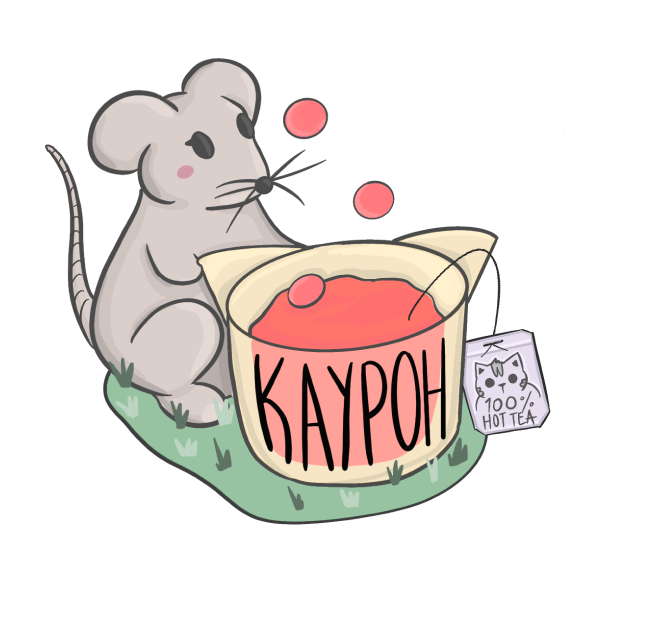
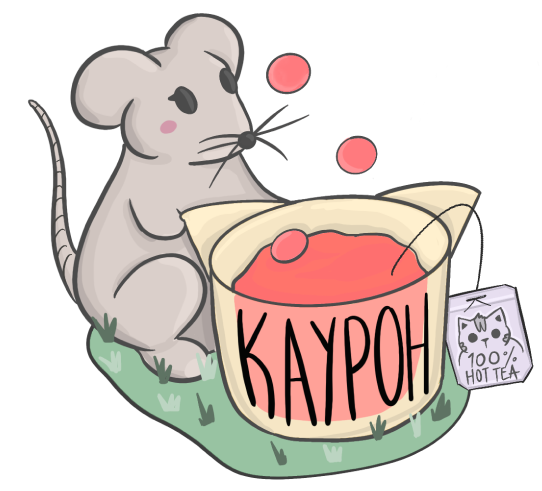
Jin Cheng

diff --git a/CSS/styles.css b/CSS/styles.css
@@ -6,10 +6,10 @@ body {
     background-color: #f0f0f5;
     color: #333;
 }
-header img {
+.logo img {
     display: block;
-    width: 110px; /* Adjust the size of the icon */
-    height: 110px;
+    width:90px; /* Adjust the size of the icon */
+    height: 90px;
     margin-bottom: 5px; /* Space between the icon and text */
 }
 
@@ -21,15 +21,20 @@ header {
 
 nav {
     display: flex;
+    align-items: flex-start;
+    height: 100px;
     justify-content: space-between;
     align-items: center;
     padding: 0 20px;
 }
 
+
+
+
 nav ul {
     list-style: none;
     display: flex;
-    gap: 20px;
+    gap: 50px;
 }
 
 nav ul li {
@@ -55,6 +60,7 @@ nav ul li a img {
 nav ul li a span {
     display: block;
     font-size: 14px; /* Adjust font size as needed */
+    margin-bottom: 1px;
 }
 
 /* Hero Section */
@@ -109,9 +115,52 @@ nav ul li a span {
 
 
 #dashboard .container {
-    max-width: 1200px;
     margin: 0 auto;
 }
+
+/* Container styles */
+.container {
+    margin-top: 20px;
+}
+
+/* Flexbox for the box container */
+.box-container {
+    display: flex;
+    justify-content: space-evenly; /* Evenly distribute space between items */
+    gap: 20px; /* Space between the divs */
+    margin-top: 20px; /* Space between the heading and the divs */
+    width: 100%;
+    height:420px;
+    
+}
+
+/* All boxes share common styles */
+.box {
+    flex-grow: 1;
+    align-items: bottom;
+    justify-content: center;
+    background-color: transparent; /* Transparent background for image boxes */
+    
+}
+
+/* Specific styles for text boxes with white background */
+.white-box {
+    flex-grow: 2;
+    background-color: white;
+    padding: 20px;
+    border-radius: 10px;
+    text-align: center;
+}
+
+
+.box img {
+    max-width: 100%; /* Ensure images scale within their div */
+    max-height: 400px;
+    object-fit: contain;
+    margin-top: 250px;
+    
+}
+
 
 #chartContainer {
     height: 400px;

diff --git a/dashboard.html b/dashboard.html
@@ -34,38 +34,14 @@
 
     <section id="hero">
         <div class="hero-content">
-            <h2>Search Social Media Trends</h2>
-            <p>Track and analyze the latest discussions on social issues across multiple platforms.</p>
-            <input type="text" id="search" placeholder="Enter social issue or hashtag...">
-            <button onclick="fetchData()">Search</button>
+            
         </div>
     </section>
 
     <section id="dashboard">
         <div class="container">
-            <h2>Trending Social Issues</h2>
-    
-            <div class="box-container">
-                <div class="box">
-                    <img src="assets/images/mouseleft.png" alt="Mouse Left">
-                </div>
- 
-                <div class="box white-box">
-                    <p>Text content for the first text box.</p>
-                </div>
-
-                <div class="box">
-                    <img src="assets/images/mousefront.png" alt="Mouse Front">
-                </div>
-    
-                 <div class="box white-box">
-                    <p>Text content for the second text box.</p>
-                </div>
- 
-                <div class="box">
-                    <img src="assets/images/mouseright.png" alt="Mouse Right">
-                </div>
-            </div>
+            <h2>Dashboard</h2>
+            <div id="chartContainer"></div>
         </div>
     </section>
 

diff --git a/analyze.html b/analyze.html
@@ -34,38 +34,14 @@
 
     <section id="hero">
         <div class="hero-content">
-            <h2>Search Social Media Trends</h2>
-            <p>Track and analyze the latest discussions on social issues across multiple platforms.</p>
-            <input type="text" id="search" placeholder="Enter social issue or hashtag...">
-            <button onclick="fetchData()">Search</button>
+            
         </div>
     </section>
 
     <section id="dashboard">
         <div class="container">
-            <h2>Trending Social Issues</h2>
-    
-            <div class="box-container">
-                <div class="box">
-                    <img src="assets/images/mouseleft.png" alt="Mouse Left">
-                </div>
- 
-                <div class="box white-box">
-                    <p>Text content for the first text box.</p>
-                </div>
-
-                <div class="box">
-                    <img src="assets/images/mousefront.png" alt="Mouse Front">
-                </div>
-    
-                 <div class="box white-box">
-                    <p>Text content for the second text box.</p>
-                </div>
- 
-                <div class="box">
-                    <img src="assets/images/mouseright.png" alt="Mouse Right">
-                </div>
-            </div>
+            <h2>Analyze</h2>
+            <div id="chartContainer"></div>
         </div>
     </section>
 

diff --git a/js/app.js b/js/app.js
@@ -1,0 +1,39 @@
+// Example function to fetch data and update the chart
+function fetchData() {
+    const query = document.getElementById('search').value;
+    
+    if (!query) {
+        alert('Please enter a search query.');
+        return;
+    }
+
+    // Simulate a data fetch with mock data
+    const mockData = {
+        labels: ['Positive', 'Negative', 'Neutral'],
+        datasets: [{
+            label: 'Sentiment Analysis',
+            data: [40, 35, 25],  // Replace this with real data
+            backgroundColor: ['#28a745', '#dc3545', '#ffc107'],
+        }]
+    };
+
+    renderChart(mockData);
+}
+
+// Function to render chart with data
+function renderChart(data) {
+    const ctx = document.getElementById('chartContainer').getContext('2d');
+
+    new Chart(ctx, {
+        type: 'doughnut',
+        data: data,
+        options: {
+            responsive: true,
+            plugins: {
+                legend: {
+                    position: 'top',
+                },
+            },
+        }
+    });
+}
